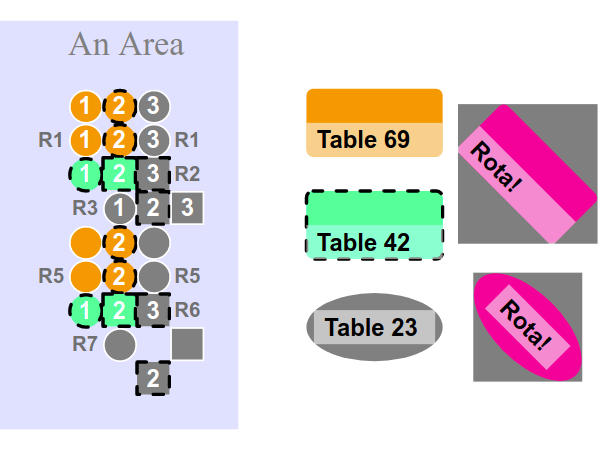
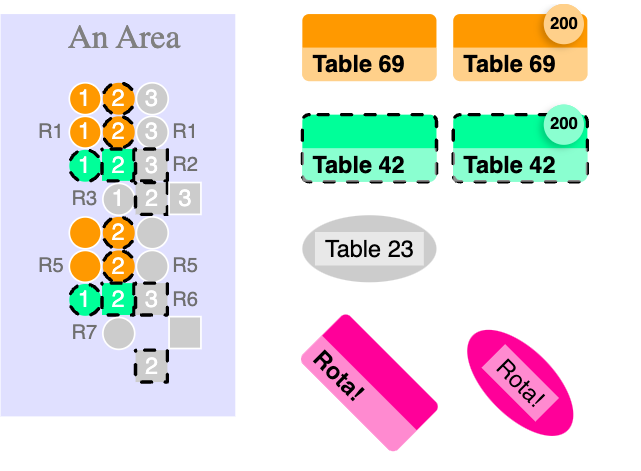
eventjet/eventjet-2014#1402 update seatmap-story + update omplex-example-reference picture

diff --git a/packages/seatmaps/src/stories/1-Seatmap.stories.tsx b/packages/seatmaps/src/stories/1-Seatmap.stories.tsx
@@ -16,82 +16,93 @@ export const ComplexExample = () => (
             }
         `}</style>
         <Seatmap className="seatmap">
-            <Rectangle height={1200} width={700} x={-200} color="rgba(0, 0, 255, .12)"/>
-            <Rectangle height={410} width={410} x={1145} y={245} color="#00000080"/>
-            <Rectangle height={320} width={320} x={1190} y={740} color="#00000080"/>
+            <Rectangle height={1200} width={700} x={-200} color="rgba(0, 0, 255, .12)" />
             <Area>
-                <Text text="An Area"/>
+                <Text text="An Area" />
                 <Block y={200}>
                     <Row>
-                        <Seat name="1" x={0} color="#ff9900" shape={SeatShape.CIRCLE}/>
-                        <Seat name="2" x={100} color="#ff9900" shape={SeatShape.CIRCLE} active={true}/>
-                        <Seat name="3" x={200} color="#ff9900" shape={SeatShape.CIRCLE} disabled={true}/>
+                        <Seat name="1" x={0} color="#ff9900" shape={SeatShape.CIRCLE} />
+                        <Seat name="2" x={100} color="#ff9900" shape={SeatShape.CIRCLE} active={true} />
+                        <Seat name="3" x={200} color="#ff9900" shape={SeatShape.CIRCLE} disabled={true} />
                     </Row>
                     <Row y={100} leftLabel="R1" rightLabel="R1">
-                        <Seat name="1" x={0} color="#ff9900" shape={SeatShape.CIRCLE}/>
-                        <Seat name="2" x={100} color="#ff9900" shape={SeatShape.CIRCLE} active={true}/>
-                        <Seat name="3" x={200} color="#ff9900" shape={SeatShape.CIRCLE} disabled={true}/>
+                        <Seat name="1" x={0} color="#ff9900" shape={SeatShape.CIRCLE} />
+                        <Seat name="2" x={100} color="#ff9900" shape={SeatShape.CIRCLE} active={true} />
+                        <Seat name="3" x={200} color="#ff9900" shape={SeatShape.CIRCLE} disabled={true} />
                     </Row>
                     <Row y={200} rightLabel="R2">
-                        <Seat name="1" x={0} color="#00ff99" active={true} shape={SeatShape.CIRCLE}/>
-                        <Seat name="2" x={100} color="#00ff99" active={true}/>
-                        <Seat name="3" x={200} color="#00ff99" active={true} disabled={true}/>
+                        <Seat name="1" x={0} color="#00ff99" active={true} shape={SeatShape.CIRCLE} />
+                        <Seat name="2" x={100} color="#00ff99" active={true} />
+                        <Seat name="3" x={200} color="#00ff99" active={true} disabled={true} />
                     </Row>
                     <Row y={300} leftLabel="R3" x={100}>
-                        <Seat name="1" x={0} color="#ff0099" disabled={true} shape={SeatShape.CIRCLE}/>
-                        <Seat name="2" x={100} color="#ff0099" disabled={true} active={true}/>
-                        <Seat name="3" x={200} color="#ff0099" disabled={true}/>
+                        <Seat name="1" x={0} color="#ff0099" disabled={true} shape={SeatShape.CIRCLE} />
+                        <Seat name="2" x={100} color="#ff0099" disabled={true} active={true} />
+                        <Seat name="3" x={200} color="#ff0099" disabled={true} />
                     </Row>
                     <Row y={400}>
-                        <Seat name="1" x={0} color="#ff9900" shape={SeatShape.CIRCLE} hideName={true}/>
-                        <Seat name="2" x={100} color="#ff9900" shape={SeatShape.CIRCLE} active={true} hideName={true}/>
+                        <Seat name="1" x={0} color="#ff9900" shape={SeatShape.CIRCLE} hideName={true} />
+                        <Seat name="2" x={100} color="#ff9900" shape={SeatShape.CIRCLE} active={true} hideName={true} />
                         <Seat
-                            name="3" x={200} color="#ff9900" shape={SeatShape.CIRCLE} disabled={true} hideName={true}
+                            name="3"
+                            x={200}
+                            color="#ff9900"
+                            shape={SeatShape.CIRCLE}
+                            disabled={true}
+                            hideName={true}
                         />
                     </Row>
                     <Row y={500} leftLabel="R5" rightLabel="R5">
-                        <Seat name="1" x={0} color="#ff9900" shape={SeatShape.CIRCLE} hideName={true}/>
-                        <Seat name="2" x={100} color="#ff9900" shape={SeatShape.CIRCLE} active={true} hideName={true}/>
+                        <Seat name="1" x={0} color="#ff9900" shape={SeatShape.CIRCLE} hideName={true} />
+                        <Seat name="2" x={100} color="#ff9900" shape={SeatShape.CIRCLE} active={true} hideName={true} />
                         <Seat
-                            name="3" x={200} color="#ff9900" shape={SeatShape.CIRCLE} disabled={true} hideName={true}
+                            name="3"
+                            x={200}
+                            color="#ff9900"
+                            shape={SeatShape.CIRCLE}
+                            disabled={true}
+                            hideName={true}
                         />
                     </Row>
                     <Row y={600} rightLabel="R6">
-                        <Seat name="1" x={0} color="#00ff99" active={true} shape={SeatShape.CIRCLE} hideName={true}/>
-                        <Seat name="2" x={100} color="#00ff99" active={true} hideName={true}/>
-                        <Seat name="3" x={200} color="#00ff99" active={true} disabled={true} hideName={true}/>
+                        <Seat name="1" x={0} color="#00ff99" active={true} shape={SeatShape.CIRCLE} hideName={true} />
+                        <Seat name="2" x={100} color="#00ff99" active={true} hideName={true} />
+                        <Seat name="3" x={200} color="#00ff99" active={true} disabled={true} hideName={true} />
                     </Row>
                     <Row y={700} leftLabel="R7" x={100}>
-                        <Seat name="1" x={0} color="#ff0099" disabled={true} shape={SeatShape.CIRCLE} hideName={true}/>
-                        <Seat name="2" x={100} color="#ff0099" disabled={true} active={true} hideName={true} y={100}/>
-                        <Seat name="3" x={200} color="#ff0099" disabled={true} hideName={true}/>
+                        <Seat name="1" x={0} color="#ff0099" disabled={true} shape={SeatShape.CIRCLE} hideName={true} />
+                        <Seat name="2" x={100} color="#ff0099" disabled={true} active={true} hideName={true} y={100} />
+                        <Seat name="3" x={200} color="#ff0099" disabled={true} hideName={true} />
                     </Row>
-                    <Volume height={200} width={400} x={700} label="Table 69" color="#ff9900"/>
-                    <Volume height={200} width={400} x={700} y={300} label="Table 42" color="#00ff99" active={true}/>
-                    <Volume
-                        height={200}
-                        width={400}
-                        x={700}
-                        y={600}
-                        label="Table 23"
-                        color="#ff9900"
-                        disabled={true}
-                        shape={'ellipse'}
-                    />
-                    <Volume height={200} width={400} x={1150} y={150} label="Rota!" color="#ff0099" angle={45}/>
-                    <Volume
-                        height={200}
-                        width={400}
-                        x={1150}
-                        y={600}
-                        label="Rota!"
-                        color="#ff0099"
-                        angle={45}
-                        shape={'ellipse'}
-                    />
                 </Block>
+
+                <Volume height={200} width={400} x={700} label="Table 69" color="#ff9900" />
+                <Volume height={200} width={400} x={1150} label="Table 69" color="#ff9900" showSeatCountAsBadge={true} availableSeatCount={200} />
+                <Volume height={200} width={400} x={700} y={300} label="Table 42" color="#00ff99" active={true} />
+                <Volume height={200} width={400} x={1150} y={300} label="Table 42" color="#00ff99" active={true} showSeatCountAsBadge={true} availableSeatCount={200} />
+                <Volume
+                    height={200}
+                    width={400}
+                    x={700}
+                    y={600}
+                    label="Table 23"
+                    color="#ff9900"
+                    disabled={true}
+                    shape={'ellipse'}
+                />
+                <Volume height={200} width={400} x={700} y={1000} label="Rota!" color="#ff0099" angle={45} />
+                <Volume
+                    height={200}
+                    width={400}
+                    x={1150}
+                    y={1000}
+                    label="Rota!"
+                    color="#ff0099"
+                    angle={45}
+                    shape={'ellipse'}
+                />
             </Area>
         </Seatmap>
-        <img src={ref}/>
+        <img src={ref} />
     </>
 );
